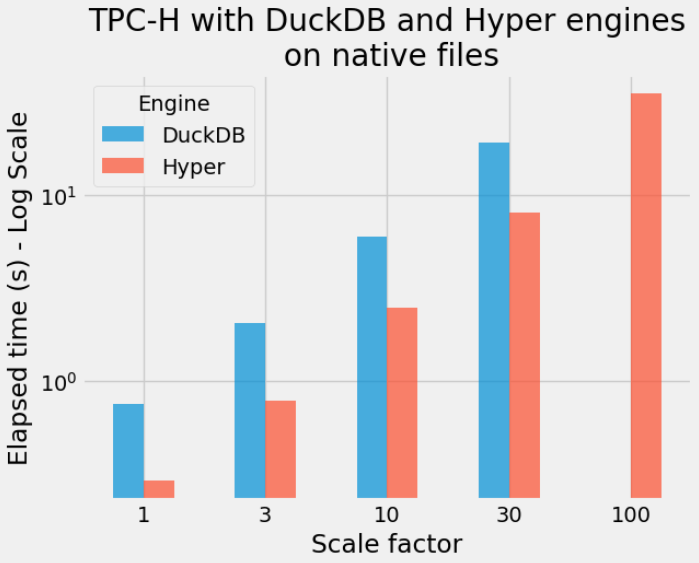
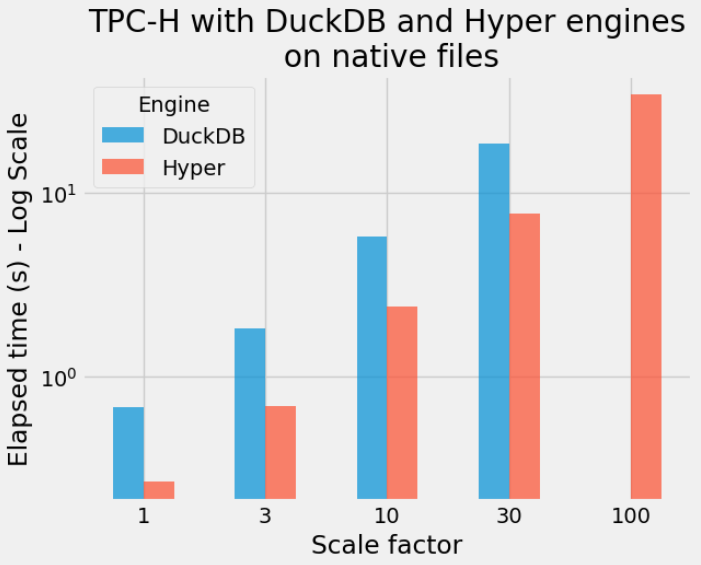
small update

diff --git a/_posts/2023-04-18-TPC-H-benchmark-of-DuckDB-and-Hyper-on-native-files-WIP.md b/_posts/2023-04-18-TPC-H-benchmark-of-DuckDB-and-Hyper-on-native-files-WIP.md
@@ -101,12 +101,12 @@ result.close()
 ```
 
 | Scale factor| DuckDB (s)  | Hyper (s) |
-|---------------:|-------:|------:|
-|              1 |   0.75 |  0.29 |
-|              3 |   2.04 |  0.79 |
-|             10 |   5.95 |  2.46 |
-|             30 |  18.99 |  8.02 |
-|            100 |    NaN | 34.63 |
+|---------------:|-----------:|----------:|
+|              1 |   0.68 |  0.27 |
+|              3 |   1.83  |  0.69 |
+|             10 |   5.75  |  2.41  |
+|             30 |  18.41   |  7.65  |
+|            100 | NaN        | 33.82   |
 
 On the scale factor 100 data, query 21 is crashing when using DuckDB with a *cannot allocate memory* error, this is why there is a *NaN* value in the table. Note that the other 21 queries correspond to a total execution time of 64.92 s with DuckDB.
 
